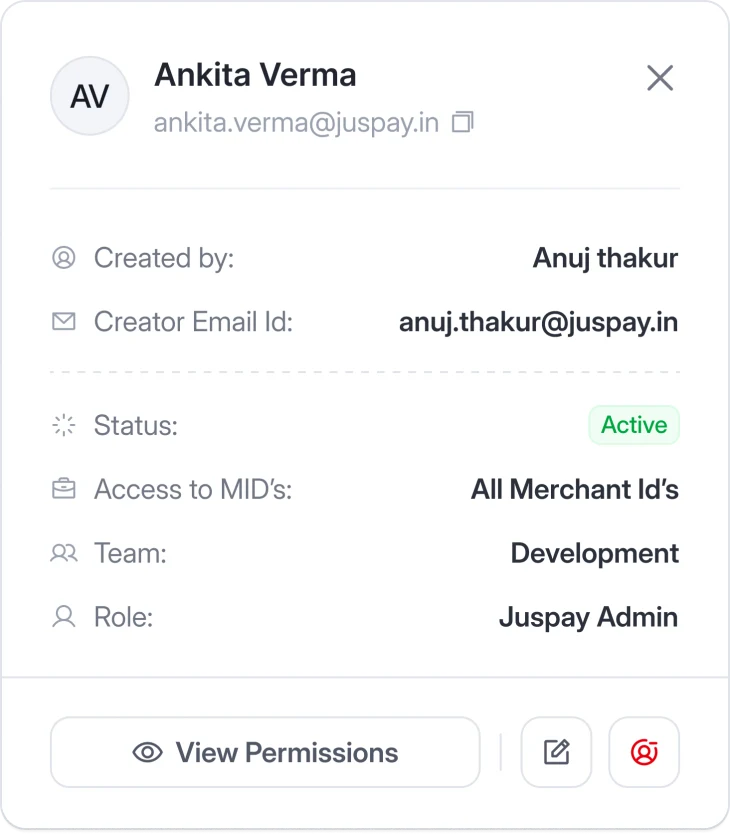
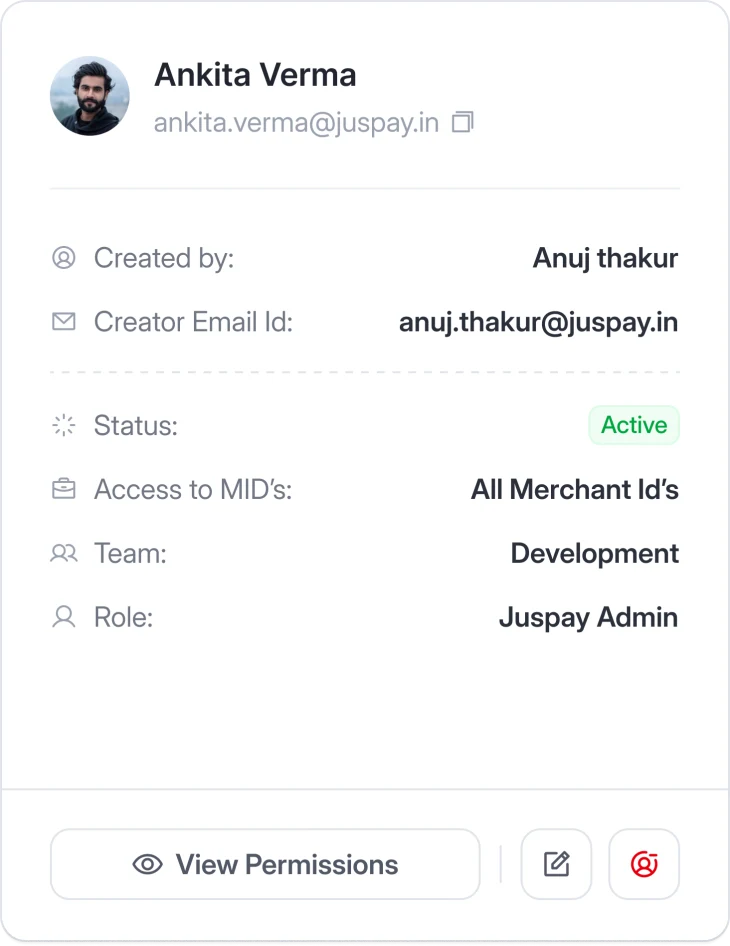
UPI Dashboard: order states carousel, ticket review, updated mails and cards
Order details becomes an auto carousel: default plus four states (mandate
active, refunds, partially collected, active dispute). Adds the ticket review
screen to the modules slideshow and re-exports the updated Mail, Dispute and
User summary images. The carousel script now drives every slideshow on the page.

diff --git a/upi-dashboard.html b/upi-dashboard.html
@@ -178,9 +178,16 @@
   </figure>
 
   <div class="hs-cap reveal"><span class="hs-cap-n">02</span><h3 class="hs-cap-t">Order details</h3></div>
-  <figure class="rr-stage reveal">
-    <div class="up-web"><img src="assets/upi/order-detail.webp" width="2000" height="1207" alt="One order: the order value, last transaction, refund status with a Create Refund button, the order's transactions, and the order summary" loading="lazy"></div>
+  <figure class="rr-stage reveal hs-show">
+    <div class="hs-slides">
+      <img class="hs-slide is-on" src="assets/upi/order-detail.webp" width="2000" height="1207" alt="One order: the order value, last transaction, refund status with a Create Refund button, the order's transactions, and the order summary" data-title="Default">
+      <img class="hs-slide" src="assets/upi/order-mandate.webp" width="2000" height="1207" alt="The same order when it has become a mandate: a banner says the mandate is active, with a link to view it" data-title="Mandate active" loading="lazy">
+      <img class="hs-slide" src="assets/upi/order-refunds.webp" width="2000" height="1207" alt="The same order after a partial refund: a bar splits what is still available to refund from what is refunded, with the last transaction and last refund side by side" data-title="Refunds" loading="lazy">
+      <img class="hs-slide" src="assets/upi/order-partial.webp" width="2000" height="1207" alt="The same order while it is only partly collected: a bar shows ₹400 collected and ₹1,000 remaining" data-title="Partially collected" loading="lazy">
+      <img class="hs-slide" src="assets/upi/order-dispute.webp" width="2000" height="1207" alt="The same order with an active dispute: a banner says a chargeback is pending and when to respond, and the affected transaction is flagged" data-title="Active dispute" loading="lazy">
+    </div>
   </figure>
+  <div class="hs-show-cap"><span class="hs-show-t">Default</span><div class="hs-ticks" role="tablist" aria-label="Order states"><button class="hs-tick is-on" aria-label="Default"></button><button class="hs-tick" aria-label="Mandate active"></button><button class="hs-tick" aria-label="Refunds"></button><button class="hs-tick" aria-label="Partially collected"></button><button class="hs-tick" aria-label="Active dispute"></button></div></div>
 </div>
 </section>
 
@@ -196,8 +203,8 @@
     <div class="up-receipts">
       <figure><div class="up-receipt"><img src="assets/upi/receipt-order.webp" width="730" height="946" alt="Order summary: ORD-55668401, Success, ₹1,400, one-time payment, last update Amount Settled" loading="lazy"></div><figcaption>Order</figcaption></figure>
       <figure><div class="up-receipt"><img src="assets/upi/receipt-mandate.webp" width="730" height="946" alt="Mandate summary: MND-55668401, Active, ₹1,400 max amount, as presented, valid until 2050, last update Mandate Activated" loading="lazy"></div><figcaption>Mandate</figcaption></figure>
-      <figure><div class="up-receipt"><img src="assets/upi/receipt-dispute.webp" width="730" height="892" alt="Dispute summary: DSP-10482, Action Required, requested adjustment ₹1,400, response reason, submitted evidence to download, and Take Action" loading="lazy"></div><figcaption>Dispute</figcaption></figure>
-      <figure><div class="up-receipt"><img src="assets/upi/receipt-user.webp" width="730" height="834" alt="User summary: Ankita Verma, created by, status, access to merchant IDs, team and role, with View Permissions, edit and revoke buttons" loading="lazy"></div><figcaption>User</figcaption></figure>
+      <figure><div class="up-receipt"><img src="assets/upi/receipt-dispute.webp" width="730" height="944" alt="Dispute summary: DSP-10482, Action Required, requested adjustment ₹1,400, response reason, submitted evidence to download, and Take Action" loading="lazy"></div><figcaption>Dispute</figcaption></figure>
+      <figure><div class="up-receipt"><img src="assets/upi/receipt-user.webp" width="730" height="946" alt="User summary: Ankita Verma, created by, status, access to merchant IDs, team and role, with View Permissions, edit and revoke buttons" loading="lazy"></div><figcaption>User</figcaption></figure>
     </div>
   </div>
 
@@ -249,11 +256,12 @@
   <figure class="rr-stage reveal hs-show">
     <div class="hs-slides">
       <img class="hs-slide is-on" src="assets/upi/tickets.webp" width="2000" height="1207" alt="Tickets as a board: pending, success, failed and declined columns, with failed tickets grouped by reason" data-title="Tickets" loading="lazy">
+      <img class="hs-slide" src="assets/upi/tickets-2.webp" width="2000" height="1207" alt="A ticket opened over the board: a merchant config change with the previous and new values side by side, and Cancel Ticket and Approve Ticket" data-title="Ticket review" loading="lazy">
       <img class="hs-slide" src="assets/upi/mails.webp" width="2000" height="1207" alt="Mails: sent mails in a list, split into success, failed and bounced, with the chosen mail opening beside it" data-title="Mails" loading="lazy">
       <img class="hs-slide" src="assets/upi/rule-config.webp" width="2000" height="1207" alt="Configuring a risk rule: conditions and groups joined with AND, and the rule it generates shown underneath" data-title="Risk rule configuration" loading="lazy">
     </div>
   </figure>
-  <div class="hs-show-cap"><span class="hs-show-t">Tickets</span><div class="hs-ticks" role="tablist" aria-label="Modules"><button class="hs-tick is-on" aria-label="Tickets"></button><button class="hs-tick" aria-label="Mails"></button><button class="hs-tick" aria-label="Risk rule configuration"></button></div></div>
+  <div class="hs-show-cap"><span class="hs-show-t">Tickets</span><div class="hs-ticks" role="tablist" aria-label="Modules"><button class="hs-tick is-on" aria-label="Tickets"></button><button class="hs-tick" aria-label="Ticket review"></button><button class="hs-tick" aria-label="Mails"></button><button class="hs-tick" aria-label="Risk rule configuration"></button></div></div>
 </div>
 </section>
 
@@ -291,17 +299,21 @@
 })();
 </script>
 <script>
-/* More modules slideshow: advances by itself, pauses on hover */
+/* Carousels (order states, more modules): each advances by itself and pauses on hover */
 (function () {
-  var box = document.querySelector('.hs-slides'); if (!box) return;
-  var slides = box.querySelectorAll('.hs-slide'), ticks = document.querySelectorAll('.hs-tick'), t = document.querySelector('.hs-show-t'), i = 0, hold = false;
-  function go(k) { slides[i].classList.remove('is-on'); ticks[i].classList.remove('is-on'); i = k % slides.length; slides[i].classList.add('is-on'); ticks[i].classList.add('is-on'); t.textContent = slides[i].dataset.title; }
-  ticks.forEach(function (b, k) { b.addEventListener('click', function () { go(k); }); });
-  if (matchMedia('(prefers-reduced-motion: reduce)').matches) return;
-  var wrap = box.closest('.rr-show');
-  wrap.addEventListener('mouseenter', function () { hold = true; });
-  wrap.addEventListener('mouseleave', function () { hold = false; });
-  setInterval(function () { if (!hold && !document.hidden) go(i + 1); }, 3500);
+  var reduce = matchMedia('(prefers-reduced-motion: reduce)').matches;
+  document.querySelectorAll('.hs-slides').forEach(function (box, n) {
+    var fig = box.closest('figure'), cap = fig.nextElementSibling;
+    var slides = box.querySelectorAll('.hs-slide'), ticks = cap.querySelectorAll('.hs-tick'), t = cap.querySelector('.hs-show-t'), i = 0, hold = false;
+    function go(k) { slides[i].classList.remove('is-on'); ticks[i].classList.remove('is-on'); i = k % slides.length; slides[i].classList.add('is-on'); ticks[i].classList.add('is-on'); t.textContent = slides[i].dataset.title; }
+    ticks.forEach(function (b, k) { b.addEventListener('click', function () { go(k); }); });
+    if (reduce) return;
+    [fig, cap].forEach(function (el) {
+      el.addEventListener('mouseenter', function () { hold = true; });
+      el.addEventListener('mouseleave', function () { hold = false; });
+    });
+    setInterval(function () { if (!hold && !document.hidden) go(i + 1); }, 3500 + n * 500);
+  });
 })();
 </script>
 <script src="assets/v3.js?v=52"></script>
